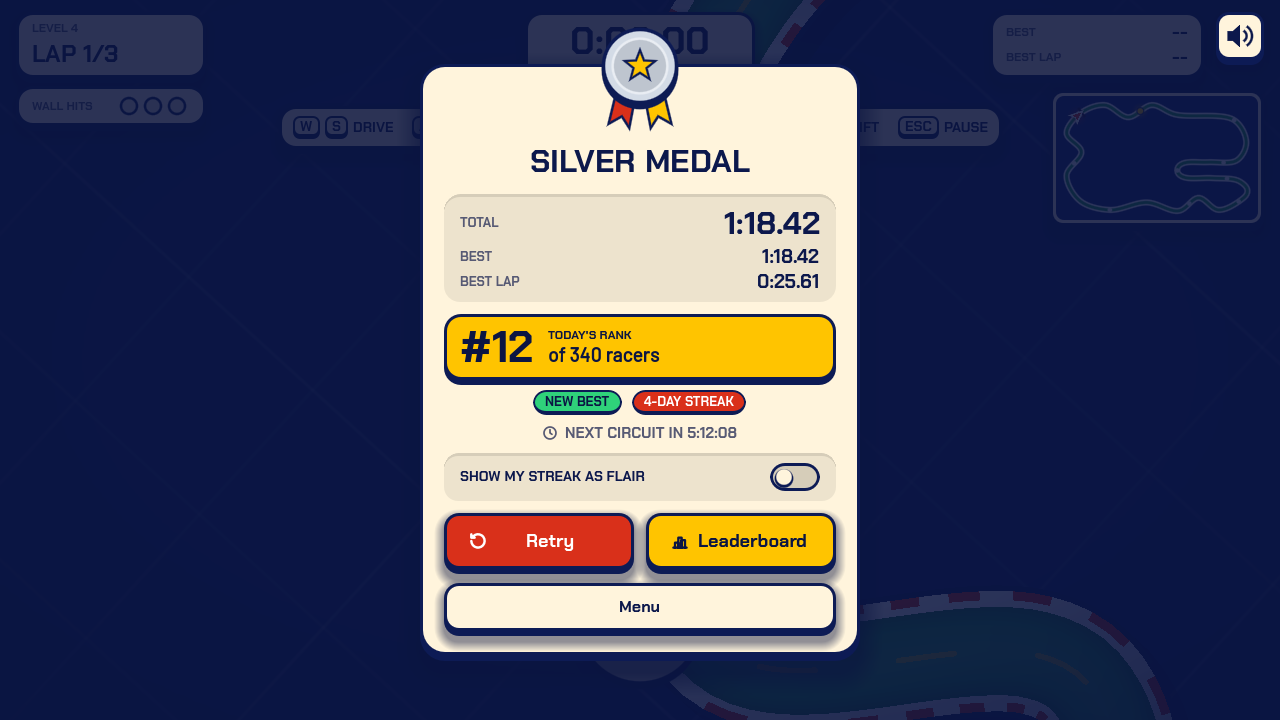
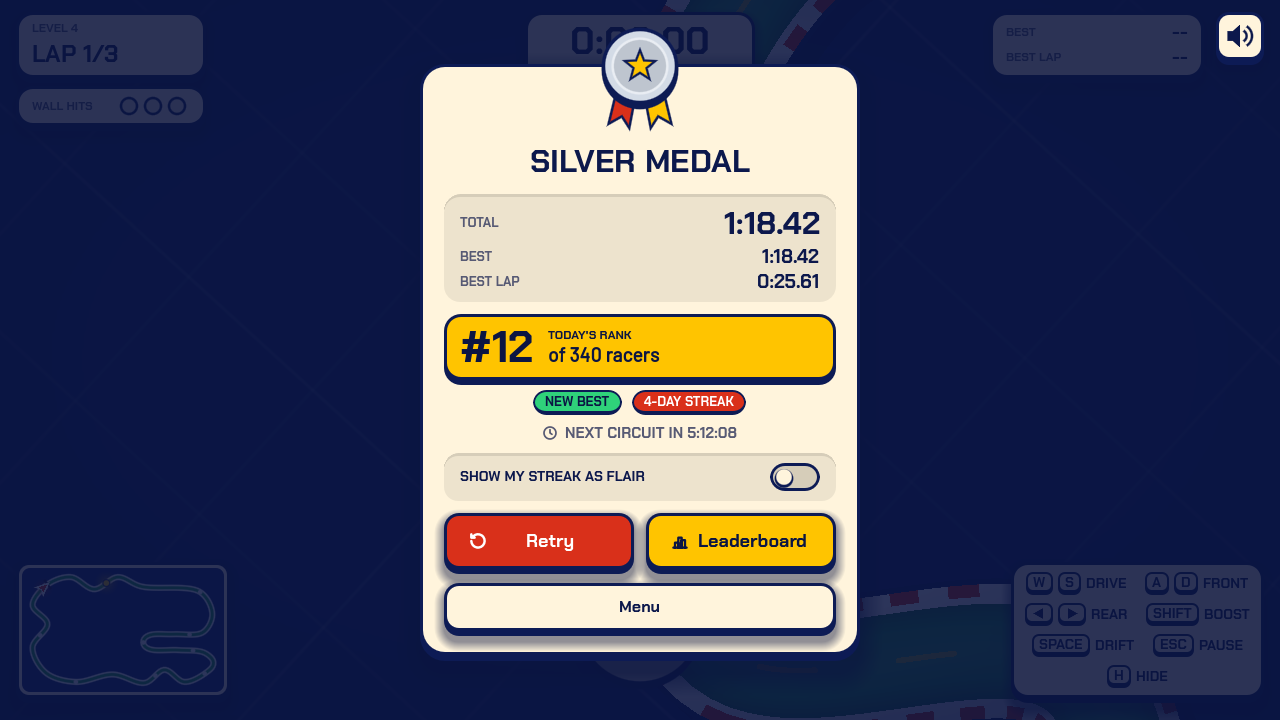
Tyre-accurate wall hits, HUD corners, key caps on the loader
- Car collision box 30x58 -> 42x63 so it covers the drawn tyres: a tyre
  reaching the white limit line is a wall hit. The limit line now sits
  wholly outside the road (its inner edge is the wall); kerb and casing
  move out 5 px. Road and car sizes unchanged. A lap bot still finishes
  every level (~2 more hits a lap).
- Wide keyboard HUD: mini map bottom-left, controls legend bottom-right.
  H hides/shows the legend (saved as settings.controls_hidden). Touch
  layouts unchanged.
- Reddit loading screen: the controls sentence becomes the game's
  legend (key caps, or thumb-pad icons on a phone) on a cream card.

Tests: all Godot suites and 28 server tests pass; screenshots
regenerated.

diff --git a/reddit/src/client/game.ts b/reddit/src/client/game.ts
@@ -95,10 +95,75 @@ void requestText('GET', '/api/init', '').then((text) => {
   }
 });
 
-// The wait is the tutorial: one line about the controls the player will use.
-el('loader-hint').textContent = matchMedia('(pointer: coarse)').matches
-  ? 'Left thumb steers the front wheels, right thumb the rear. Push up to drive.'
-  : 'A / D turn the front wheels. Left / Right arrows turn the rear wheels. W to drive.';
+// The wait is the tutorial: the controls as the same key caps / thumb pads the
+// game's own legend shows (ui/hud_style.gd KEYBOARD_LEGEND / TOUCH_LEGEND).
+// A cap is a key ("W", "SHIFT", "<", ">") or, on touch, a pad: "F" (front, red)
+// or "R" (rear, gold) or nothing (either pad), then an arrow ("<>", "^", "v").
+const KEYBOARD_LEGEND: [string[], string][] = [
+  [['W', 'S'], 'Drive'],
+  [['A', 'D'], 'Front'],
+  [['<', '>'], 'Rear'],
+  [['SHIFT'], 'Boost'],
+  [['SPACE'], 'Drift'],
+  [['ESC'], 'Pause'],
+];
+const TOUCH_LEGEND: [string[], string][] = [
+  [['F<>'], 'Front'],
+  [['R<>'], 'Rear'],
+  [['^'], 'Drive'],
+  [['F^', 'R^'], 'Boost'],
+  [['v'], 'Drift'],
+  [['Fv', 'Rv'], 'Brake'],
+];
+const ARROWS: Record<string, string[]> = {
+  '<': ['8,2 3,6 8,10'],
+  '>': ['4,2 9,6 4,10'],
+  '^': ['2,8 6,3 10,8'],
+  v: ['2,4 6,9 10,4'],
+  '<>': ['5,3 1,6 5,9', '7,3 11,6 7,9'],
+};
+
+function arrow(token: string): SVGSVGElement {
+  const ns = 'http://www.w3.org/2000/svg';
+  const svg = document.createElementNS(ns, 'svg');
+  svg.setAttribute('viewBox', '0 0 12 12');
+  svg.setAttribute('aria-hidden', 'true');
+  for (const points of ARROWS[token] ?? []) {
+    const shape = document.createElementNS(ns, 'polygon');
+    shape.setAttribute('points', points);
+    svg.append(shape);
+  }
+  return svg;
+}
+
+function cap(token: string, touch: boolean): HTMLElement {
+  const node = document.createElement('span');
+  if (touch) {
+    const side = token[0] === 'F' ? 'front' : token[0] === 'R' ? 'rear' : 'any';
+    node.className = `pad ${side}`;
+    node.append(arrow(side === 'any' ? token : token.slice(1)));
+  } else {
+    node.className = 'key';
+    if (token in ARROWS) node.append(arrow(token));
+    else node.textContent = token;
+  }
+  return node;
+}
+
+function buildLegend(box: HTMLElement, touch: boolean): void {
+  for (const [caps, action] of touch ? TOUCH_LEGEND : KEYBOARD_LEGEND) {
+    const pair = document.createElement('span');
+    pair.className = 'pair';
+    for (const token of caps) pair.append(cap(token, touch));
+    const word = document.createElement('span');
+    word.className = 'word';
+    word.textContent = action;
+    pair.append(word);
+    box.append(pair);
+  }
+}
+
+buildLegend(el('loader-hint'), matchMedia('(pointer: coarse)').matches);
 
 function fail(error: unknown): void {
   console.error(error);

diff --git a/reddit/public/styles/game.css b/reddit/public/styles/game.css
@@ -21,8 +21,12 @@
   --bg-stripe: #203fca;
   --field: #0f1f63;
   --ink: #0d1b55;
+  --surface: #fff4dc;
   --surface-inset: #ede3cd;
+  --screen: #122370;
+  --ink-text: #0c184c;
   --gold: #ffc400;
+  --pop: #d9301a;
   --danger-light: #ffd0d0;
   --text: #ffffff;
   --text-muted: #d6defc;
@@ -107,12 +111,77 @@ body {
   transition: width 0.2s linear;
 }
 
-.hint {
-  max-width: 320px;
-  margin: 12px 0 0;
+/* The controls, as the game's own legend draws them (ui/hud_style.gd): key
+   caps or thumb pads plus one word, two to a row, on a raised cream card. */
+.legend {
+  margin-top: 18px;
+  padding: 14px 18px 16px;
+  display: grid;
+  grid-template-columns: repeat(2, auto);
+  gap: 12px 22px;
+  justify-content: center;
+  background: var(--surface);
+  border-radius: 16px;
+  box-shadow: 0 0 0 3px var(--ink), 0 5px 0 3px var(--ink), 0 12px 20px 3px rgba(10, 20, 63, 0.45);
+}
+
+.pair {
+  display: flex;
+  align-items: center;
+  gap: 5px;
+  font-family: 'Chakra Petch', system-ui, sans-serif;
   font-size: 15px;
-  line-height: 1.4;
-  color: var(--text);
+  text-transform: uppercase;
+  color: var(--ink-text);
+}
+
+.word {
+  margin-left: 3px;
+}
+
+.key {
+  min-width: 26px;
+  height: 28px;
+  padding: 0 7px;
+  box-sizing: border-box;
+  display: inline-flex;
+  align-items: center;
+  justify-content: center;
+  background: var(--surface);
+  border: 2px solid var(--ink);
+  border-bottom-width: 5px;
+  border-radius: 6px;
+  font-size: 13px;
+  color: var(--ink-text);
+}
+
+.pad {
+  width: 30px;
+  height: 30px;
+  box-sizing: border-box;
+  display: inline-flex;
+  align-items: center;
+  justify-content: center;
+  background: var(--screen);
+  border: 3px solid var(--text-muted);
+  border-radius: 50%;
+  box-shadow: 0 2px 0 var(--ink);
+  color: #ffffff;
+}
+
+.pad.front {
+  border-color: var(--pop);
+}
+
+.pad.rear {
+  border-color: var(--gold);
+}
+
+.key svg,
+.pad svg {
+  width: 12px;
+  height: 12px;
+  fill: currentColor;
 }
 
 #loader.failed #loader-text {

diff --git a/reddit/public/game.html b/reddit/public/game.html
@@ -16,7 +16,7 @@
       <p class="eyebrow">Four Wheel Steer</p>
       <p id="loader-text">Loading the circuit</p>
       <div class="bar"><div id="loader-fill"></div></div>
-      <p class="hint" id="loader-hint"></p>
+      <div class="legend" id="loader-hint" aria-label="Controls"></div>
     </div>
 
     <!-- index.js is Godot's engine loader and godot-config.js its settings;

diff --git a/docs/CHANGELOG.md b/docs/CHANGELOG.md
@@ -4,6 +4,28 @@ Running history of major changes. Newest on top. See `CLAUDE.md` for when to add
 
 ## 2026-11-20
 
+- **A tyre on the white line is a wall hit; a clearer race HUD; key caps on the loading screen.**
+  *Why:* playtesting on Reddit, the user saw the tyres ride over the track edge without a hit,
+  found the top of the desktop HUD crowded, and wanted the loading screen's controls to match the
+  rest of the game. Road and car sizes are unchanged.
+  - `Car.tscn`: the collision box grew from 30 x 58 to 42 x 63 so it covers the drawn tyres
+    (they reach 21 px either side). The car now stops, and the hit counts, the moment a tyre
+    reaches the wall; before, the tyres could cross the line and 3-4 px of kerb first. Fully
+    steered front wheels can still poke ~4 px past the box. A lap bot still finishes every
+    level, with about 2 more hits a lap than before (tyre touches now count).
+  - `track_builder.gd`: the white limit line (`LIMIT_WIDTH` 5 px) now sits wholly outside the
+    road, so the green-to-white edge is exactly the wall; the kerb and casing move out by the
+    same 5 px (still inside `BEND_MARGIN`). The track test checks the new outer edge.
+  - Race HUD, wide keyboard window: the mini map moves to the bottom-left corner and the
+    controls legend to the bottom-right (two pairs a row), so the top row is only lap, timer
+    and best. **H** hides the legend, leaving an "H CONTROLS" chip, and the choice is saved
+    (`Game.is_controls_hidden()`, `settings.controls_hidden` in `save.json`). Touch layouts keep
+    the old places: the bottom corners belong to the thumb pads.
+  - Reddit loading screen (`game.html`, `game.ts`, `game.css`): the one-line sentence is now the
+    game's own legend on a cream card: key caps (W S DRIVE, A D FRONT, arrows REAR, SHIFT
+    BOOST, SPACE DRIFT, ESC PAUSE) or, on a phone, thumb-pad icons (FRONT, REAR, DRIVE, BOOST,
+    DRIFT, BRAKE).
+
 - **The sample layouts too: Today's Circuit, the results card, the pad names.** *Why:* the user
   wants the layout ideas from the Cobalt & Sun samples as well ("I did not mean no other UI
   changes").

diff --git a/CLAUDE.md b/CLAUDE.md
@@ -142,7 +142,10 @@ entry. When in doubt, add one — short is fine.
 
 ## Controls
 
-Desktop: **W/S** drive · **A/D** front wheels · **←/→** rear wheels · **Shift/C** boost · **Space** handbrake · **Esc/P** pause.
+Desktop: **W/S** drive · **A/D** front wheels · **←/→** rear wheels · **Shift/C** boost · **Space** handbrake · **Esc/P** pause · **H** hide/show the race HUD's controls legend (saved).
+Wide keyboard HUD: mini map bottom-left, legend bottom-right; touch layouts keep them up top
+(the bottom corners are the pads'). The Reddit loading screen draws the same legend in HTML
+(`reddit/src/client/game.ts`); keep it in step with `KEYBOARD_LEGEND` / `TOUCH_LEGEND`.
 The in-race controls strip and the How to Play legend both come from `HudStyle.controls_legend()`
 (`KEYBOARD_LEGEND` / `TOUCH_LEGEND`); change the controls there too.
 Touch (phones, incl. the Reddit web view): two thumb pads — **left** = front wheels, **right** =
@@ -154,6 +157,9 @@ the user's own design; don't change the gestures without asking.
 
 - Godot 4.x, GDScript with tabs for indentation; type hints where practical.
 - Car convention: `rotation = 0` points **up**; forward = `Vector2.from_angle(rotation - PI/2)`.
+- **A tyre touching the white limit line is a wall hit** (the user asked): the car's collision
+  box (`Car.tscn`, 42 x 63) covers the drawn tyres, and the limit line sits wholly outside the
+  road so its inner edge is the wall. Keep the box matched to the car's drawing.
 - **Keep the car planted** (the user found it drifted into walls): `car.gd` `traction` pulls the
   sideways slide toward the wheels' no-slip motion; grip 800, rear stiffer than front. Don't
   loosen these without asking. The handbrake is the drift button.

diff --git a/README.md b/README.md
@@ -55,6 +55,7 @@ smooth edges come from anti-aliased lines and circles, not a project setting. Sc
 | **Shift** *(or **C**)* | boost (burns the boost meter) |
 | **Space** | handbrake (drift) |
 | **Esc / P** | pause (Resume / Restart / Menu) |
+| **H** | hide / show the controls legend (remembered) |
 
 Restart and "next level" are on the pause and results screens. During a race the same list sits
 under the top row as a strip of **key caps** (thumb-pad icons on touch). It is built by
@@ -146,7 +147,8 @@ the window is resized across the two.
 - A **3-2-1-GO** countdown starts each race; the HUD shows **Lap x/3**, a lap timer, total time,
   **best lap** (flashes on a new best), a **radial speedometer** gauge, a **boost meter**, a live
   **+/- split delta** vs your best lap (green = ahead, red = behind), and an **arrow to the next gate** (handy since
-  the camera rotates with the car). The camera is zoomed in, so a **mini map** (top right) shows
+  the camera rotates with the car). The camera is zoomed in, so a **mini map** (bottom left on a
+  desktop, top right on a phone) shows
   the whole circuit: north stays up, your car is the red arrow, the next gate pulses gold, and the
   dark bar is the start/finish line.
 - On finish you get a **medal** by total time; **best time + best lap** are saved, and **Next**

diff --git a/reddit/README.md b/reddit/README.md
@@ -23,6 +23,7 @@ one circuit is featured: race it, climb today's board, and keep your streak goin
 | Drift (handbrake) | pull one pad down | **Space** |
 | Brake / reverse | pull both pads down | **S** |
 | Pause | **II** button | **Esc** |
+| Hide the controls legend | | **H** |
 
 ### The trick
 
